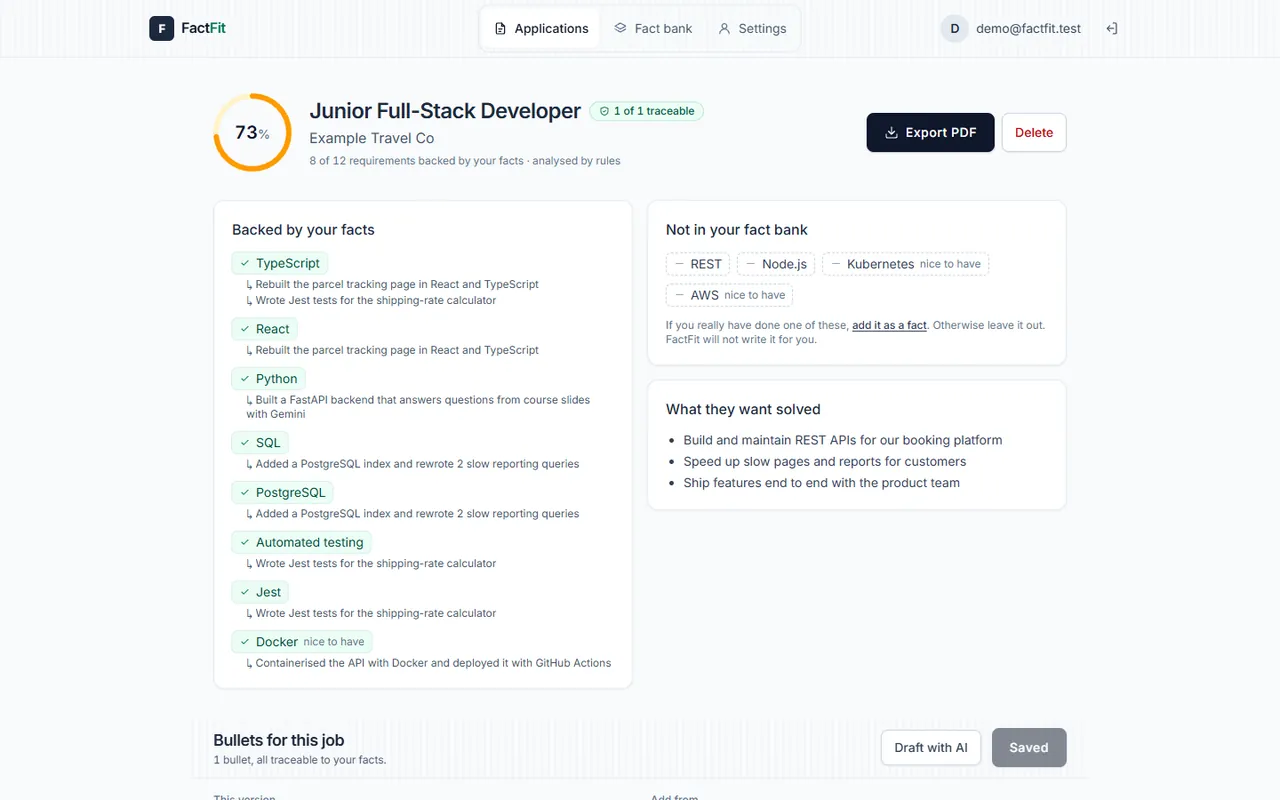
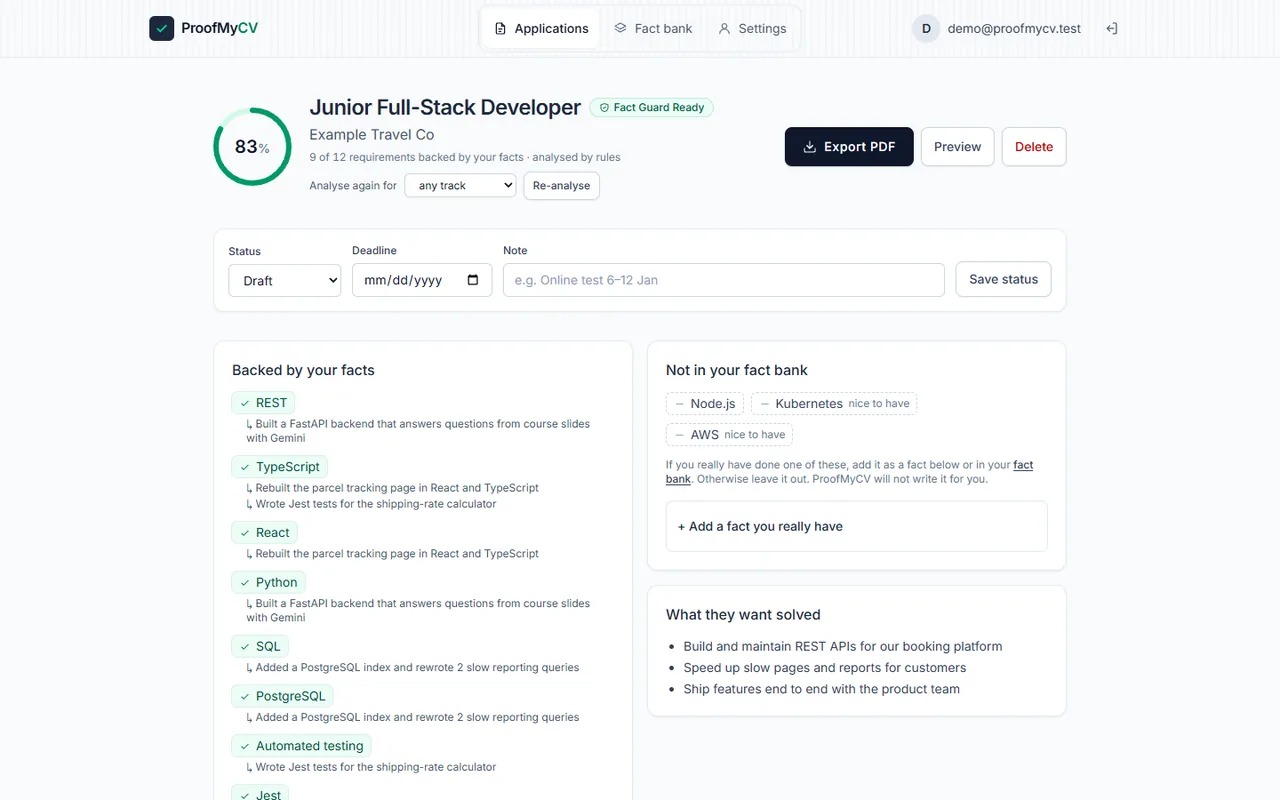
New screenshots and features for MorPlan, PingKhana, ProofMyCV, SlipJot; source links

diff --git a/index.html b/index.html
@@ -68,19 +68,20 @@
 
     <section class="work wrap" id="work" aria-labelledby="work-title">
       <h2 id="work-title">Five apps, built solo and live</h2>
-      <p class="lede">Each has a link you can open, numbers I measured, and a plain note on where it stands. The repositories are private for now.</p>
+      <p class="lede">Each has a link you can open, numbers I measured, and a plain note on where it stands. The code for all five is public on GitHub.</p>
 
       <article class="flagship glass tilt" id="morplan" aria-labelledby="morplan-title">
         <div class="fl-media gallery">
           <button type="button" class="shot-open" aria-label="Enlarge screenshot">
-            <img src="img/morplan-planner-1600.webp" srcset="img/morplan-planner-800.webp 800w, img/morplan-planner-1600.webp 1600w" sizes="(min-width: 1000px) 640px, 100vw" width="1600" height="1067" alt="MorPlan week grid with five courses placed; two Tuesday and Friday classes overlap and are marked in red, and an alert names the clash.">
+            <img src="img/morplan-planner-1600.webp" srcset="img/morplan-planner-800.webp 800w, img/morplan-planner-1600.webp 1600w" sizes="(min-width: 1000px) 640px, 100vw" width="1600" height="1067" alt="MorPlan week grid with 4 courses and 12 credits; 2 clashes are marked in red and an alert names the overlapping courses.">
           </button>
           <div class="switcher" role="group" aria-label="MorPlan screens">
-            <button type="button" aria-pressed="true" data-src="img/morplan-planner-1600.webp" data-srcset="img/morplan-planner-800.webp 800w, img/morplan-planner-1600.webp 1600w" data-alt="MorPlan week grid with five courses placed; two Tuesday and Friday classes overlap and are marked in red, and an alert names the clash.">Planner</button>
+            <button type="button" aria-pressed="true" data-src="img/morplan-planner-1600.webp" data-srcset="img/morplan-planner-800.webp 800w, img/morplan-planner-1600.webp 1600w" data-alt="MorPlan week grid with 4 courses and 12 credits; 2 clashes are marked in red and an alert names the overlapping courses.">Planner</button>
+            <button type="button" aria-pressed="false" data-src="img/morplan-import-1600.webp" data-srcset="img/morplan-import-800.webp 800w, img/morplan-import-1600.webp 1600w" data-alt="MorPlan import: a course table pasted as text and read in the browser into courses, sections and times.">Import</button>
             <button type="button" aria-pressed="false" data-src="img/morplan-drag-1600.webp" data-srcset="img/morplan-drag-800.webp 800w, img/morplan-drag-1600.webp 1600w" data-alt="Dragging a course in MorPlan: every section of it shows as a slot on the grid, and the slots that would clash are red.">Drag</button>
-            <button type="button" aria-pressed="false" data-src="img/morplan-compare-1600.webp" data-srcset="img/morplan-compare-800.webp 800w, img/morplan-compare-1600.webp 1600w" data-alt="MorPlan comparing plans side by side by credits, clashes, free days and earliest and latest class.">Compare</button>
+            <button type="button" aria-pressed="false" data-src="img/morplan-compare-1600.webp" data-srcset="img/morplan-compare-800.webp 800w, img/morplan-compare-1600.webp 1600w" data-alt="MorPlan comparing plans A and B side by side by credits, clashes, free days and earliest and latest class, with a small timetable of each.">Compare</button>
             <button type="button" aria-pressed="false" data-src="img/morplan-ask-1600.webp" data-srcset="img/morplan-ask-800.webp 800w, img/morplan-ask-1600.webp 1600w" data-alt="MorPlan answering a question about CMU regulations in Thai, citing the document title and page.">Rule Q&amp;A</button>
-            <button type="button" aria-pressed="false" data-src="img/morplan-curriculum-1600.webp" data-srcset="img/morplan-curriculum-800.webp 800w, img/morplan-curriculum-1600.webp 1600w" data-alt="MorPlan curriculum progress: credits passed by category against the study plan.">Curriculum</button>
+            <button type="button" aria-pressed="false" data-src="img/morplan-curriculum-1600.webp" data-srcset="img/morplan-curriculum-800.webp 800w, img/morplan-curriculum-1600.webp 1600w" data-alt="MorPlan curriculum setup: pick the university, faculty, major and entry year from lists, and it finds the matching curriculum and study plan.">Curriculum</button>
           </div>
         </div>
         <div class="fl-body">
@@ -93,23 +94,24 @@
           </dl>
           <ul class="feat">
             <li>Drag courses onto a week grid or place them from the keyboard. Class, midterm, final and duplicate clashes show at once, and plans A to E compare side by side and export to .ics or PNG.</li>
-            <li>Works for the 77 universities in the TCAS list. You paste your course table and the browser reads it, so MorPlan never asks for your registration password.</li>
+            <li>Pick any of the 77 TCAS universities and your major, and it finds your curriculum: what you passed, what is overdue and which electives fit. Course tables are pasted and read in the browser, so it never asks for your registration password.</li>
             <li>Rule answers cite the document and page. Hybrid search scored a little higher (91.7%), but its embedding model is too big for a Vercel function, so production runs BM25 at about 1 ms a question.</li>
           </ul>
           <ul class="tags" aria-label="Stack">
             <li>Next.js 16</li><li>TypeScript</li><li>Tailwind 4</li><li>dnd-kit</li><li>Supabase</li><li>Drizzle</li><li>Vitest + fast-check</li><li>Playwright</li>
           </ul>
           <p class="state"><span class="dot" aria-hidden="true"></span><span><strong>Status:</strong> live, no real users yet. The regulation PDFs are scanned and OCR sometimes misreads Thai digits, so every answer links to the original page.</span></p>
-          <a class="btn primary" href="https://morplan.vercel.app" rel="noopener">Open morplan.vercel.app<svg class="ext" viewBox="0 0 12 12" aria-hidden="true"><path d="M3 9l6-6M4 3h5v5"/></svg></a>
+          <div class="links"><a class="btn primary" href="https://morplan.vercel.app" rel="noopener">Open morplan.vercel.app<svg class="ext" viewBox="0 0 12 12" aria-hidden="true"><path d="M3 9l6-6M4 3h5v5"/></svg></a><a class="btn glass" href="https://github.com/Vector033/MorPlan" rel="noopener">Source on GitHub<svg class="ext" viewBox="0 0 12 12" aria-hidden="true"><path d="M3 9l6-6M4 3h5v5"/></svg></a></div>
         </div>
       </article>
 
       <article class="flagship glass tilt" id="pingkhana" aria-labelledby="pingkhana-title">
         <div class="fl-media gallery">
-          <button type="button" class="shot-open" aria-label="Enlarge screenshot"><img src="img/pingkhana-home-1280.webp" srcset="img/pingkhana-home-640.webp 640w, img/pingkhana-home-1280.webp 1280w" sizes="(min-width: 1000px) 640px, 100vw" width="1280" height="800" loading="lazy" alt="PingKhana home page: 352 announcements from 13 sites, 14 with a closing date, and a list of the ones closing soonest."></button>
+          <button type="button" class="shot-open" aria-label="Enlarge screenshot"><img src="img/pingkhana-home-1280.webp" srcset="img/pingkhana-home-640.webp 640w, img/pingkhana-home-1280.webp 1280w" sizes="(min-width: 1000px) 640px, 100vw" width="1280" height="800" loading="lazy" alt="PingKhana home page: scholarships, co-op, jobs and events that are open now, with the ones closing soonest listed first."></button>
           <div class="switcher" role="group" aria-label="PingKhana screens">
-            <button type="button" aria-pressed="true" data-src="img/pingkhana-home-1280.webp" data-srcset="img/pingkhana-home-640.webp 640w, img/pingkhana-home-1280.webp 1280w" data-alt="PingKhana home page: 352 announcements from 13 sites, 14 with a closing date, and a list of the ones closing soonest.">Home</button>
-            <button type="button" aria-pressed="false" data-src="img/pingkhana-drawer-1280.webp" data-srcset="img/pingkhana-drawer-640.webp 640w, img/pingkhana-drawer-1280.webp 1280w" data-alt="PingKhana announcement details: the poster, a short Thai summary, the closing date with days left, and a button for a LINE reminder.">Details</button>
+            <button type="button" aria-pressed="true" data-src="img/pingkhana-home-1280.webp" data-srcset="img/pingkhana-home-640.webp 640w, img/pingkhana-home-1280.webp 1280w" data-alt="PingKhana home page: scholarships, co-op, jobs and events that are open now, with the ones closing soonest listed first.">Home</button>
+            <button type="button" aria-pressed="false" data-src="img/pingkhana-drawer-1280.webp" data-srcset="img/pingkhana-drawer-640.webp 640w, img/pingkhana-drawer-1280.webp 1280w" data-alt="PingKhana announcement details: a short Thai summary, the closing date with days left, and buttons for Google Calendar, .ics and a LINE reminder.">Details</button>
+            <button type="button" aria-pressed="false" data-src="img/pingkhana-follow-1280.webp" data-srcset="img/pingkhana-follow-640.webp 640w, img/pingkhana-follow-1280.webp 1280w" data-alt="PingKhana follow page: tick the CMU, teacher and general news sources you want, without an account.">Follow</button>
             <button type="button" aria-pressed="false" data-src="img/pingkhana-line-1280.webp" data-srcset="img/pingkhana-line-640.webp 640w, img/pingkhana-line-1280.webp 1280w" data-alt="PingKhana LINE bot replying with a carousel of open announcements, each with its closing date and a reminder button.">LINE</button>
             <button type="button" aria-pressed="false" data-src="img/pingkhana-dark-1280.webp" data-srcset="img/pingkhana-dark-640.webp 640w, img/pingkhana-dark-1280.webp 1280w" data-alt="PingKhana in dark mode: filter chips and a grid of announcement cards with photos.">Dark mode</button>
           </div>
@@ -123,15 +125,15 @@
             <div><dt>announcements collected (22 Nov 2026)</dt><dd>611</dd></div>
           </dl>
           <ul class="feat">
-            <li>A FastAPI collector reads CMU faculty sites and education news every hour. It follows robots.txt, retries on 5xx and 429, and merges an announcement posted on several sites into one.</li>
+            <li>A FastAPI collector reads CMU faculty sites and education news every hour. It follows robots.txt, retries on 5xx and 429, and merges an announcement posted on several sites into one. Anyone can add a source by pasting a link (public hosts only, admin-approved).</li>
             <li>Gemini reads closing dates from text, posters and PDFs, and a rule-based extractor takes over when Gemini fails. On the held-out set the rules beat Gemini, 94.1% to 91.2%.</li>
-            <li>LINE's free plan allows 300 pushes a month, so the bot sends one digest a day and keeps a reserve for reminders 3 days and 1 day before a deadline. Anyone can add a source by pasting a link (public hosts only, admin-approved).</li>
+            <li>Follow only the sources you care about, no account needed. LINE's free plan allows 300 pushes a month, so the bot sends one digest a day and keeps a reserve for reminders 3 days and 1 day before a deadline.</li>
           </ul>
           <ul class="tags" aria-label="Stack">
             <li>Python 3.12</li><li>FastAPI</li><li>SQLAlchemy 2</li><li>PostgreSQL</li><li>Next.js 16</li><li>LINE LIFF</li><li>Gemini</li><li>pytest</li>
           </ul>
           <p class="state"><span class="dot" aria-hidden="true"></span><span><strong>Status:</strong> live, not opened to real users yet.</span></p>
-          <a class="btn primary" href="https://pingkhana.vercel.app" rel="noopener">Open pingkhana.vercel.app<svg class="ext" viewBox="0 0 12 12" aria-hidden="true"><path d="M3 9l6-6M4 3h5v5"/></svg></a>
+          <div class="links"><a class="btn primary" href="https://pingkhana.vercel.app" rel="noopener">Open pingkhana.vercel.app<svg class="ext" viewBox="0 0 12 12" aria-hidden="true"><path d="M3 9l6-6M4 3h5v5"/></svg></a><a class="btn glass" href="https://github.com/Vector033/PingKhana" rel="noopener">Source on GitHub<svg class="ext" viewBox="0 0 12 12" aria-hidden="true"><path d="M3 9l6-6M4 3h5v5"/></svg></a></div>
         </div>
       </article>
 
@@ -141,8 +143,8 @@
             <button type="button" class="shot-open" aria-label="Enlarge screenshot"><img src="img/factfit-studio-1280.webp" srcset="img/factfit-studio-640.webp 640w, img/factfit-studio-1280.webp 1280w" sizes="(min-width: 1000px) 560px, 100vw" width="1280" height="800" loading="lazy" alt="ProofMyCV bullet studio: three drafted résumé bullets, two marked Traceable and one marked Blocked because its number and a tool name are not in the cited facts."></button>
             <div class="switcher" role="group" aria-label="ProofMyCV screens">
               <button type="button" aria-pressed="true" data-src="img/factfit-studio-1280.webp" data-srcset="img/factfit-studio-640.webp 640w, img/factfit-studio-1280.webp 1280w" data-alt="ProofMyCV bullet studio: three drafted résumé bullets, two marked Traceable and one marked Blocked because its number and a tool name are not in the cited facts.">Bullets</button>
-              <button type="button" aria-pressed="false" data-src="img/factfit-application-1280.webp" data-srcset="img/factfit-application-640.webp 640w, img/factfit-application-1280.webp 1280w" data-alt="ProofMyCV application view: a 73% fit score for a junior full-stack job, with each matched skill linked to the fact that backs it.">Fit score</button>
-              <button type="button" aria-pressed="false" data-src="img/factfit-factbank-1280.webp" data-srcset="img/factfit-factbank-640.webp 640w, img/factfit-factbank-1280.webp 1280w" data-alt="ProofMyCV fact bank: work and project entries written as short facts with their numbers and tools.">Fact bank</button>
+              <button type="button" aria-pressed="false" data-src="img/factfit-application-1280.webp" data-srcset="img/factfit-application-640.webp 640w, img/factfit-application-1280.webp 1280w" data-alt="ProofMyCV application view: an 83% fit score for a junior full-stack job, with each matched skill linked to the fact that backs it.">Fit score</button>
+              <button type="button" aria-pressed="false" data-src="img/factfit-factbank-1280.webp" data-srcset="img/factfit-factbank-640.webp 640w, img/factfit-factbank-1280.webp 1280w" data-alt="ProofMyCV fact bank: the résumé header and work entries written as short facts with their numbers and tools.">Fact bank</button>
               <button type="button" aria-pressed="false" data-src="img/factfit-guard-1280.webp" data-srcset="img/factfit-guard-640.webp 640w, img/factfit-guard-1280.webp 1280w" data-alt="ProofMyCV guard sandbox: a draft bullet that mentions MongoDB is blocked because that tool is not in the cited fact.">Guard</button>
             </div>
           </div>
@@ -154,12 +156,12 @@
           </dl>
           <ul class="feat">
             <li>A plain-code guard blocks any bullet whose numbers or tools aren't in your facts.</li>
-            <li>Job links are fetched with an SSRF check on every redirect.</li>
-            <li>Uploads are read in memory only, with size, page and zip-bomb caps.</li>
+            <li>Takes a job as a link, a poster photo or text; links get an SSRF check on every redirect.</li>
+            <li>Tracks each application's status and deadline, and adds a missing skill as a fact in one step.</li>
           </ul>
           <ul class="tags" aria-label="Stack"><li>Next.js 16</li><li>Supabase</li><li>Drizzle</li><li>Gemini</li><li>Vitest</li></ul>
           <p class="state"><span class="dot" aria-hidden="true"></span><span><strong>Status:</strong> live with a demo account. Every eval case is fictional. I use it for my own applications.</span></p>
-          <a class="btn glass" href="https://proofmycv.vercel.app" rel="noopener">Open proofmycv.vercel.app<svg class="ext" viewBox="0 0 12 12" aria-hidden="true"><path d="M3 9l6-6M4 3h5v5"/></svg></a>
+          <div class="links"><a class="btn glass" href="https://proofmycv.vercel.app" rel="noopener">Open proofmycv.vercel.app<svg class="ext" viewBox="0 0 12 12" aria-hidden="true"><path d="M3 9l6-6M4 3h5v5"/></svg></a><a class="btn glass" href="https://github.com/Vector033/ProofMyCV" rel="noopener">Source on GitHub<svg class="ext" viewBox="0 0 12 12" aria-hidden="true"><path d="M3 9l6-6M4 3h5v5"/></svg></a></div>
         </article>
 
         <article class="card glass tilt" id="harnkan" aria-labelledby="harnkan-title">
@@ -185,7 +187,7 @@
           </ul>
           <ul class="tags" aria-label="Stack"><li>Next.js 16</li><li>Supabase Realtime + RLS</li><li>PWA</li><li>IndexedDB</li><li>Playwright</li></ul>
           <p class="state"><span class="dot" aria-hidden="true"></span><span><strong>Status:</strong> live and installable. Not used on a real trip yet.</span></p>
-          <a class="btn glass" href="https://harnkan-ten.vercel.app" rel="noopener">Open harnkan-ten.vercel.app<svg class="ext" viewBox="0 0 12 12" aria-hidden="true"><path d="M3 9l6-6M4 3h5v5"/></svg></a>
+          <div class="links"><a class="btn glass" href="https://harnkan-ten.vercel.app" rel="noopener">Open harnkan-ten.vercel.app<svg class="ext" viewBox="0 0 12 12" aria-hidden="true"><path d="M3 9l6-6M4 3h5v5"/></svg></a><a class="btn glass" href="https://github.com/Vector033/HarnKan" rel="noopener">Source on GitHub<svg class="ext" viewBox="0 0 12 12" aria-hidden="true"><path d="M3 9l6-6M4 3h5v5"/></svg></a></div>
         </article>
 
         <article class="card glass tilt" id="slipjot" aria-labelledby="slipjot-title">
@@ -195,7 +197,7 @@
               <button type="button" aria-pressed="true" data-src="img/slipjot-dashboard-1280.webp" data-srcset="img/slipjot-dashboard-640.webp 640w, img/slipjot-dashboard-1280.webp 1280w" data-alt="SlipJot dashboard for one month: total spending, a bar for each day, spending by category and the most frequent payees.">Dashboard</button>
               <button type="button" aria-pressed="false" data-src="img/slipjot-review-1280.webp" data-srcset="img/slipjot-review-640.webp 640w, img/slipjot-review-1280.webp 1280w" data-alt="SlipJot review queue: a slip with a field the reader was unsure about, highlighted for the user to check before saving.">Review</button>
               <button type="button" aria-pressed="false" data-src="img/slipjot-expenses-1280.webp" data-srcset="img/slipjot-expenses-640.webp 640w, img/slipjot-expenses-1280.webp 1280w" data-alt="SlipJot expense list grouped by day, with a category on each payment and a total for each day.">Expenses</button>
-              <button type="button" aria-pressed="false" data-src="img/slipjot-phone-1280.webp" data-srcset="img/slipjot-phone-640.webp 640w, img/slipjot-phone-1280.webp 1280w" data-alt="SlipJot on a phone reading two uploaded slips, with counters for saved, to-review and duplicate slips.">Phone</button>
+              <button type="button" aria-pressed="false" data-src="img/slipjot-landing-1280.webp" data-srcset="img/slipjot-landing-640.webp 640w, img/slipjot-landing-1280.webp 1280w" data-alt="SlipJot home page: a sample bank slip next to the expense it becomes, and a table of reading accuracy by bank for Gemini and on-device OCR.">Home page</button>
             </div>
           </div>
           <h3 id="slipjot-title">SlipJot</h3>
@@ -205,13 +207,13 @@
             <div><dt>silent errors: unsure slips go to a review queue</dt><dd>0%</dd></div>
           </dl>
           <ul class="feat">
-            <li>Reads Thai slips on the device (tesseract.js, about 0.75 s) or with Gemini.</li>
+            <li>Share slips straight from a banking app (Android); it reads them on the device in about 0.75 s or with Gemini.</li>
             <li>Learned payees, then keywords, then an LLM: 13 of 381 slips needed the LLM.</li>
             <li>Catches duplicates by hash, QR payload, reference or look-alike image.</li>
           </ul>
           <ul class="tags" aria-label="Stack"><li>Next.js 16</li><li>Supabase</li><li>tesseract.js</li><li>Gemini</li><li>Recharts</li></ul>
           <p class="state"><span class="dot" aria-hidden="true"></span><span><strong>Status:</strong> live with a demo account. Every number comes from synthetic slips.</span></p>
-          <a class="btn glass" href="https://slipjot.vercel.app" rel="noopener">Open slipjot.vercel.app<svg class="ext" viewBox="0 0 12 12" aria-hidden="true"><path d="M3 9l6-6M4 3h5v5"/></svg></a>
+          <div class="links"><a class="btn glass" href="https://slipjot.vercel.app" rel="noopener">Open slipjot.vercel.app<svg class="ext" viewBox="0 0 12 12" aria-hidden="true"><path d="M3 9l6-6M4 3h5v5"/></svg></a><a class="btn glass" href="https://github.com/Vector033/SlipJot" rel="noopener">Source on GitHub<svg class="ext" viewBox="0 0 12 12" aria-hidden="true"><path d="M3 9l6-6M4 3h5v5"/></svg></a></div>
         </article>
       </div>
     </section>

diff --git a/styles.css b/styles.css
@@ -205,6 +205,9 @@ h1 .role { display: block; margin-top: 14px; font-size: clamp(1.5rem, 3vw, 2.25r
 .card > p:not(.tagline):not(.state) { font-size: 0.96rem; }
 .card .readings { margin: 16px 0; }
 .card .btn { align-self: flex-start; margin-top: auto; }
+.links { display: flex; flex-wrap: wrap; gap: 10px; }
+.card .links { margin-top: auto; }
+.links .btn { margin-top: 0; }
 
 /* screenshot viewer */
 .viewer { width: min(1400px, 94vw); max-height: 92vh; padding: 12px; color: var(--text); background: var(--bg1); border: 1px solid var(--line); border-radius: 16px; }

diff --git a/PRODUCT.md b/PRODUCT.md
@@ -31,7 +31,7 @@ Visitors read on laptops and phones, often between other applications. Résumé 
 - English only.
 - Public contact: email (nawat_wattanawong@cmu.ac.th) and GitHub (github.com/Vector033). No phone number on the site; the phone stays only in the downloadable PDF.
 - One page: hero with portrait and readings, MorPlan flagship, four other solo projects, Project Z, skills (with how I work and education), contact.
-- The five solo repositories are private. No source links to them until the owner makes them public.
+- The five solo repositories are public since 2026-11-22 (github.com/Vector033/{MorPlan,PingKhana,ProofMyCV,HarnKan,SlipJot}); each card links its source.
 - AI coding agents were used to build the projects and this site. Never claim "hand-built".
 
 ## Evidence on Hand
